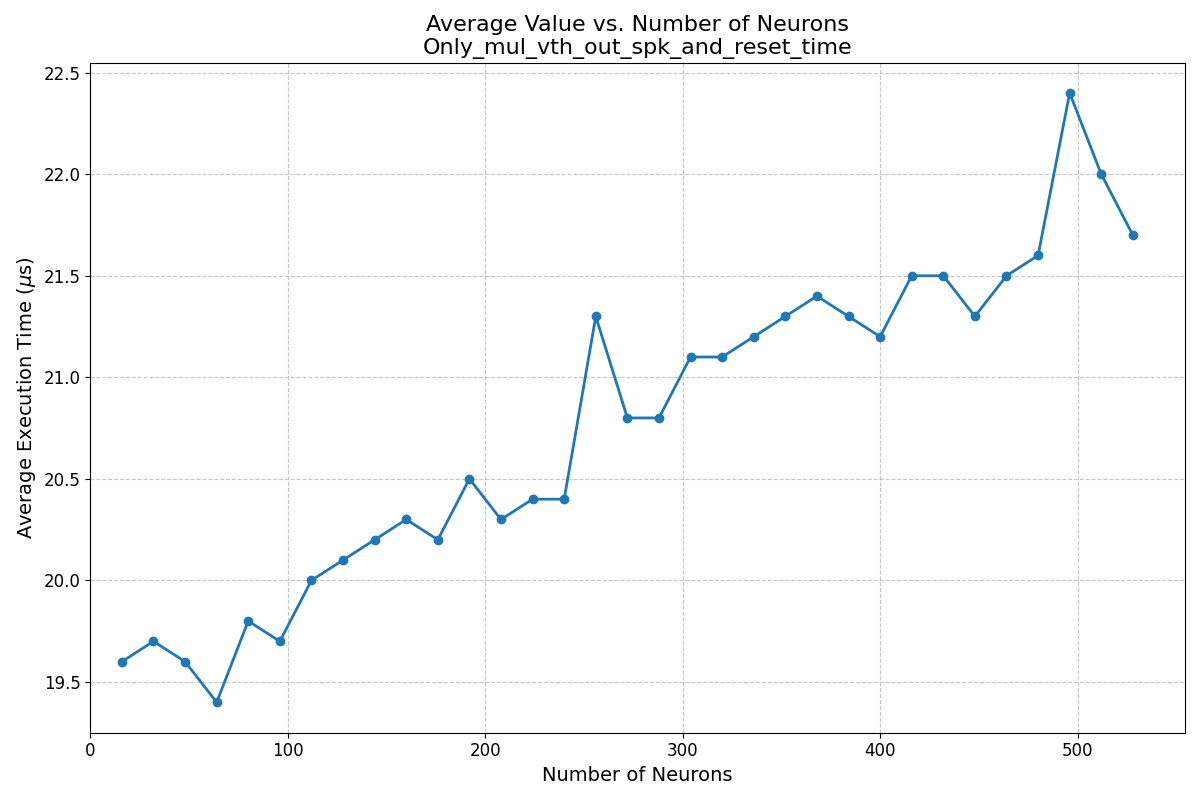
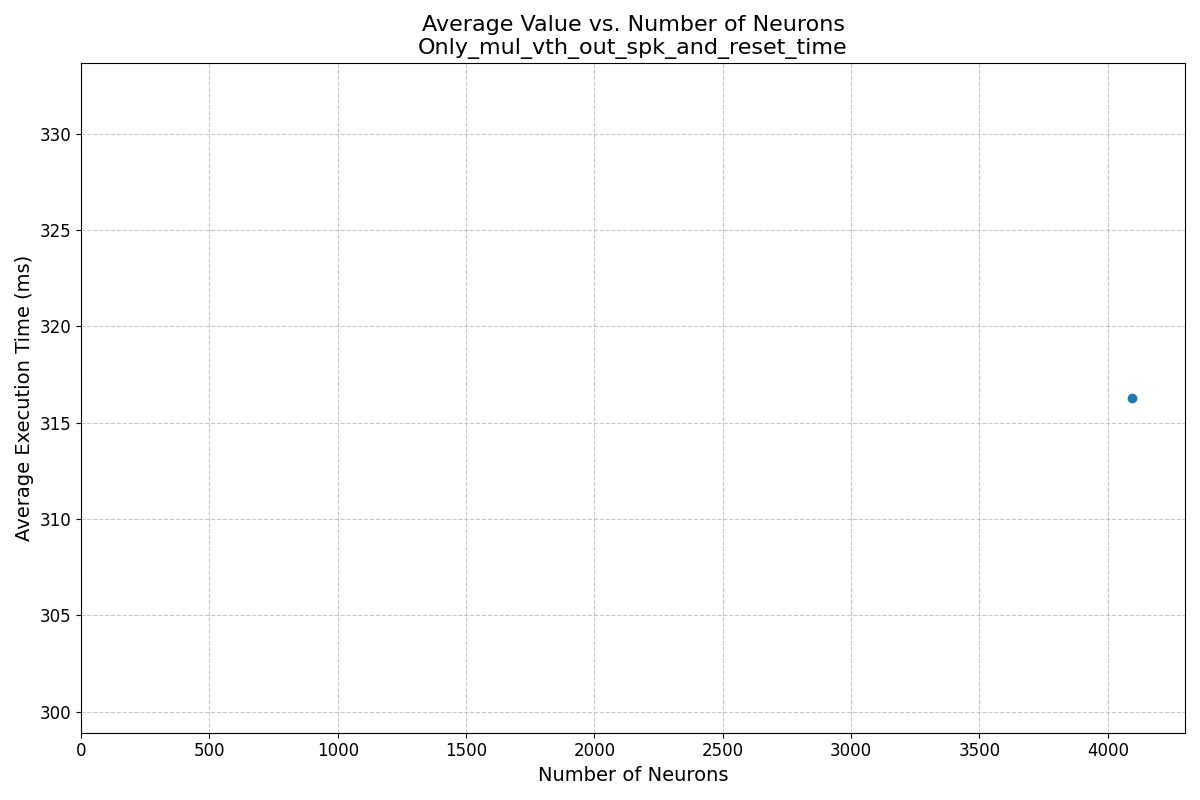
unit now works in scripts for measurement

diff --git a/snn_on_alif_e7/my_snn_bare_metal/src/nn_ops.c b/snn_on_alif_e7/my_snn_bare_metal/src/nn_ops.c
@@ -43,24 +43,25 @@ void ethosu_start_pmu_measure(struct ethosu_driver *drv, void *user_arg)
     // Your custom start‑of‑inference hook
     // e.g., toggle an LED or start a timer
     if (MEASURE_MODE) {
-        printf("Before NPU OP Start\n");
-        int8_t* input = (int8_t *)(intptr_t)drv->job.base_addr[5];
-        int8_t* output = (int8_t *)(intptr_t)drv->job.base_addr[6];
-        size_t input_size = drv->job.base_addr_size[5];
-        size_t output_size = drv->job.base_addr_size[6];
-        // Print input
-        printf("input:\n");
-        for (size_t i = 0; i < input_size; i++){
-            printf("%" PRIu8 ", ", input[i]);
-        }
-        printf("\n");
+        //printf("Before NPU OP Start\n");
+        //int8_t* input = (int8_t *)(intptr_t)drv->job.base_addr[5];
+        //int8_t* output = (int8_t *)(intptr_t)drv->job.base_addr[6];
+        //size_t input_size = drv->job.base_addr_size[5];
+        //size_t output_size = drv->job.base_addr_size[6];
+        //// Print input
+        //printf("input:\n");
+        //for (size_t i = 0; i < input_size; i++){
+            //printf("%" PRIu8 ", ", input[i]);
+        //}
+        //printf("\n");
 
-        // Print output
-        printf("output:\n");
-        for (size_t i = 0; i < output_size; i++){
-            printf("%" PRIu8 ", ", output[i]);
-        }
-        printf("\n");
+        //// Print output
+        //printf("output:\n");
+        //for (size_t i = 0; i < output_size; i++){
+            //printf("%" PRIu8 ", ", output[i]);
+        //}
+        //printf("\n");
+        // Start measuring time
         measure_layer0_start = debug_start_timer();
 
         // 1. Enable PMU
@@ -117,8 +118,9 @@ void ethosu_inference_end(struct ethosu_driver *drv, void *user_arg)
         printf("\taxi_stalls: %" PRIu32 "\n", axi_stalls);
 
         // Print CPU timer results
-        //printf("Ticks elapsed for layer once in it: %d = %d\n", global_it, measure_layer0_elapsed_ticks);
-        printf("Ticks elapsed for layer once in it: %d = %" PRIu64 " \xC2\xB5s\n", global_it, cycles);
+        //printf("Ticks elapsed for layer once in it: %d = %d \xC2\xB5s\n", global_it, measure_layer0_elapsed_ticks);
+        printf("Ticks elapsed for layer once in it: %d = %d ms\n", global_it, measure_layer0_elapsed_ticks);
+        //printf("Ticks elapsed for layer once in it: %d = %" PRIu64 " \n", global_it, cycles);
 
     }
         int8_t* input = (int8_t *)(intptr_t)drv->job.base_addr[5];
@@ -126,22 +128,22 @@ void ethosu_inference_end(struct ethosu_driver *drv, void *user_arg)
         size_t input_size = drv->job.base_addr_size[5];
         size_t output_size = drv->job.base_addr_size[6];
 
-        printf("input_size: %d\n", input_size);
-        printf("output_size: %d\n", output_size);
-        printf("Atfter NPU OP\n");
-        // Print input
-        printf("input:\n");
-        for (size_t i = 0; i < input_size; i++){
-            printf("%" PRIu8 ", ", input[i]);
-        }
-        printf("\n");
+        //printf("input_size: %d\n", input_size);
+        //printf("output_size: %d\n", output_size);
+        //printf("Atfter NPU OP\n");
+        //// Print input
+        //printf("input:\n");
+        //for (size_t i = 0; i < input_size; i++){
+            //printf("%" PRIu8 ", ", input[i]);
+        //}
+        //printf("\n");
 
-        // Print output
-        printf("output:\n");
-        for (size_t i = 0; i < output_size; i++){
-            printf("%" PRIu8 ", ", output[i]);
-        }
-        printf("\n");
+        //// Print output
+        //printf("output:\n");
+        //for (size_t i = 0; i < output_size; i++){
+            //printf("%" PRIu8 ", ", output[i]);
+        //}
+        //printf("\n");
 }
 
 

diff --git a/snn_on_alif_e7/eval_results/plot_csv.py b/snn_on_alif_e7/eval_results/plot_csv.py
@@ -4,19 +4,34 @@ import re
 import sys
 from pathlib import Path
 
-
+# Ensure plot directory exists
 plot_dir = Path("plot")
+plot_dir.mkdir(exist_ok=True)
 
-
+# Get the filepath from command line arguments
 filepath = Path(sys.argv[1])
-
 
 # Read the CSV file
 df = pd.read_csv(filepath)
 
-# Extract neuron counts from column names
+# Extract neuron counts and units from column names
 neuron_columns = [col for col in df.columns if col.startswith('neurons_')]
-neuron_counts = [int(re.search(r'neurons_(\d+)', col).group(1)) for col in neuron_columns]
+
+# Extract the unit from column names if present
+unit_match = re.search(r'neurons_\d+_\((\w+)\)', neuron_columns[0]) if neuron_columns else None
+if unit_match:
+    unit = unit_match.group(1)  # Extract unit from parentheses like (ms)
+else:
+    # Try alternative format without parentheses
+    alt_match = re.search(r'neurons_\d+_(\w+)', neuron_columns[0]) if neuron_columns else None
+    unit = alt_match.group(1) if alt_match else "μs"  # Default to microseconds if no unit found
+
+# Extract just the neuron counts from column names
+neuron_counts = []
+for col in neuron_columns:
+    match = re.search(r'neurons_(\d+)', col)
+    if match:
+        neuron_counts.append(int(match.group(1)))
 
 # Calculate the average value for each column
 avg_values = df[neuron_columns].mean()
@@ -32,11 +47,14 @@ sorted_avgs = [avg_dict[count] for count in sorted_counts]
 plt.figure(figsize=(12, 8))
 plt.plot(sorted_counts, sorted_avgs, marker='o', linestyle='-', linewidth=2, markersize=6)
 plt.grid(True, linestyle='--', alpha=0.7)
-
 plt.title('Average Value vs. Number of Neurons\n'+filepath.stem, fontsize=16)
 plt.xlabel('Number of Neurons', fontsize=14)
-plt.ylabel(r"Average Execution Time ($\mu$s)", fontsize=14)
 
+# Use the extracted unit for the y-axis label
+if unit.lower() == 'ms':
+    plt.ylabel(f"Average Execution Time ({unit})", fontsize=14)
+else:
+    plt.ylabel(f"Average Execution Time ({unit})", fontsize=14)
 
 # Add tick marks for better readability
 plt.xticks(fontsize=12)
@@ -50,6 +68,7 @@ plt.tight_layout()
 plt.savefig(plot_dir / Path(filepath.stem+'.png'))
 plt.show()
 
+# Print statistics
 print(f"The data shows a trend across {len(sorted_counts)} different neuron configurations.")
-print(f"Minimum average value: {min(sorted_avgs):.2f} at {sorted_counts[sorted_avgs.index(min(sorted_avgs))]} neurons")
-print(f"Maximum average value: {max(sorted_avgs):.2f} at {sorted_counts[sorted_avgs.index(max(sorted_avgs))]} neurons")
+print(f"Minimum average value: {min(sorted_avgs):.2f} {unit} at {sorted_counts[sorted_avgs.index(min(sorted_avgs))]} neurons")
+print(f"Maximum average value: {max(sorted_avgs):.2f} {unit} at {sorted_counts[sorted_avgs.index(max(sorted_avgs))]} neurons")
